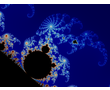
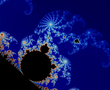
Added more fractal images, edited thumbnailize.py

diff --git a/Gallery.html b/Gallery.html
@@ -79,6 +79,13 @@ div.desc
 <div class="img"><a target="_blank" href="./fractals/fractal4.htm"><img src="./fractals/fractal4_small.png" alt="800x600" width="110" height="90" /></a><div class="desc">size: 800x600</div></div>
 <div class="img"><a target="_blank" href="./fractals/fractal5.htm"><img src="./fractals/fractal5_small.png" alt="800x600" width="110" height="90" /></a><div class="desc">size: 800x600</div></div>
 <div class="img"><a target="_blank" href="./fractals/fractal6.htm"><img src="./fractals/fractal6_small.png" alt="800x600" width="110" height="90" /></a><div class="desc">size: 800x600</div></div>
+<div class="img"><a target="_blank" href="./fractals/fractal7.htm"><img src="./fractals/fractal7_small.png" alt="800x600" width="110" height="90" /></a><div class="desc">size: 800x600</div></div>
+<div class="img"><a target="_blank" href="./fractals/fractal8.htm"><img src="./fractals/fractal8_small.png" alt="800x600" width="110" height="90" /></a><div class="desc">size: 800x600</div></div>
+<div class="img"><a target="_blank" href="./fractals/fractal9.htm"><img src="./fractals/fractal9_small.png" alt="800x600" width="110" height="90" /></a><div class="desc">size: 800x600</div></div>
+<div class="img"><a target="_blank" href="./fractals/fractal10.htm"><img src="./fractals/fractal10_small.png" alt="800x600" width="110" height="90" /></a><div class="desc">size: 800x600</div></div>
+<div class="img"><a target="_blank" href="./fractals/fractal11.htm"><img src="./fractals/fractal11_small.png" alt="800x600" width="110" height="90" /></a><div class="desc">size: 800x600</div></div>
+<div class="img"><a target="_blank" href="./fractals/fractal12.htm"><img src="./fractals/fractal12_small.png" alt="800x600" width="110" height="90" /></a><div class="desc">size: 800x600</div></div>
+<div class="img"><a target="_blank" href="./fractals/fractal13.htm"><img src="./fractals/fractal13_small.png" alt="800x600" width="110" height="90" /></a><div class="desc">size: 800x600</div></div>
 
 </body>
 </html>

diff --git a/fractals/fractal10.htm b/fractals/fractal10.htm
@@ -1,0 +1,1 @@
+<html><head><title>Fractal</title></head><body><img border="0" src="fractal10.png" width=str(width) height=str(height) alt="Fractal" /></body></html>

diff --git a/fractals/fractal11.htm b/fractals/fractal11.htm
@@ -1,0 +1,1 @@
+<html><head><title>Fractal</title></head><body><img border="0" src="fractal11.png" width=str(width) height=str(height) alt="Fractal" /></body></html>

diff --git a/fractals/fractal12.htm b/fractals/fractal12.htm
@@ -1,0 +1,1 @@
+<html><head><title>Fractal</title></head><body><img border="0" src="fractal12.png" width=str(width) height=str(height) alt="Fractal" /></body></html>

diff --git a/fractals/fractal13.htm b/fractals/fractal13.htm
@@ -1,0 +1,1 @@
+<html><head><title>Fractal</title></head><body><img border="0" src="fractal13.png" width=str(width) height=str(height) alt="Fractal" /></body></html>

diff --git a/fractals/fractal7.htm b/fractals/fractal7.htm
@@ -1,0 +1,1 @@
+<html><head><title>Fractal</title></head><body><img border="0" src="fractal7.png" width=str(width) height=str(height) alt="Fractal" /></body></html>

diff --git a/fractals/fractal8.htm b/fractals/fractal8.htm
@@ -1,0 +1,1 @@
+<html><head><title>Fractal</title></head><body><img border="0" src="fractal8.png" width=str(width) height=str(height) alt="Fractal" /></body></html>

diff --git a/fractals/fractal9.htm b/fractals/fractal9.htm
@@ -1,0 +1,1 @@
+<html><head><title>Fractal</title></head><body><img border="0" src="fractal9.png" width=str(width) height=str(height) alt="Fractal" /></body></html>

diff --git a/fractals/thumbnailize.py b/fractals/thumbnailize.py
@@ -3,5 +3,5 @@ startN=1
 n=6
 
 for i in range(0,n):
-    os.system("convert fractal"+str(i+startN)+".png -resize 110x90^ -gravity center -extent 110x90 fractal"+str(i+startN)+"_small.png")
+    os.system("convert fractal"+str(i+startN)+".png -resize 110x90^^ -gravity center -extent 110x90 fractal"+str(i+startN)+"_small.png")
 

diff --git a/fractals/genHtml.py b/fractals/genHtml.py
@@ -1,7 +1,7 @@
 
 
-n=6
-startN=1
+n=7
+startN=7
 width=800
 height=600
 
